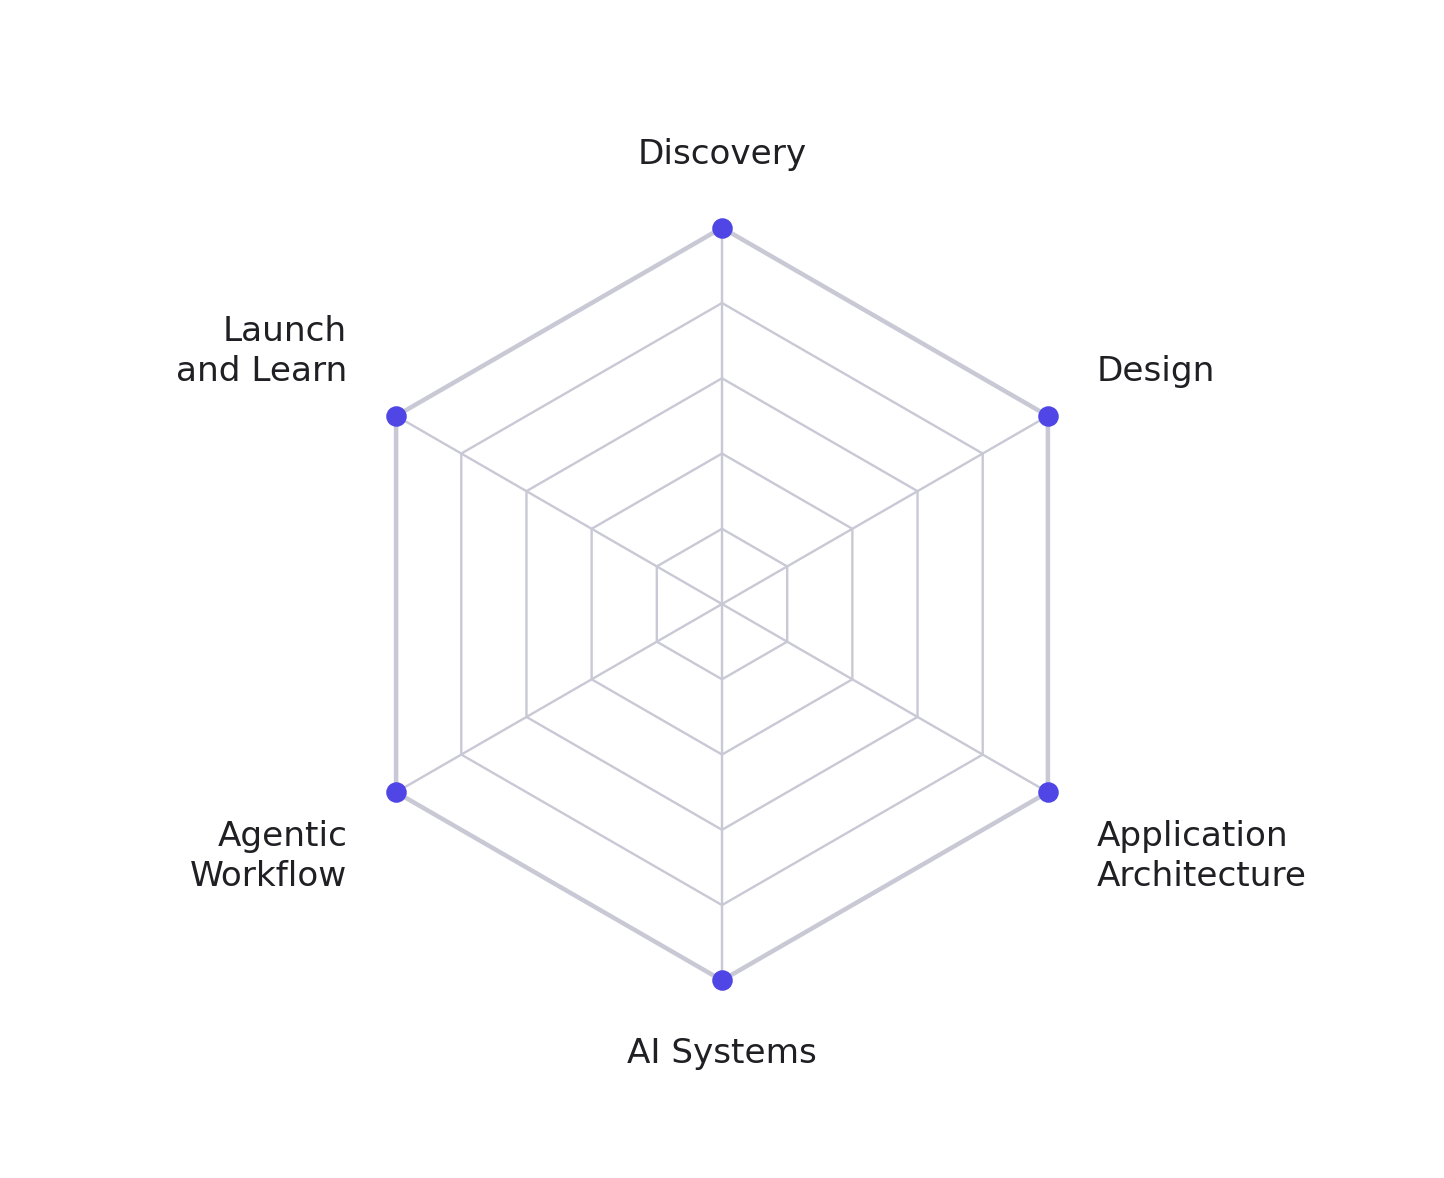
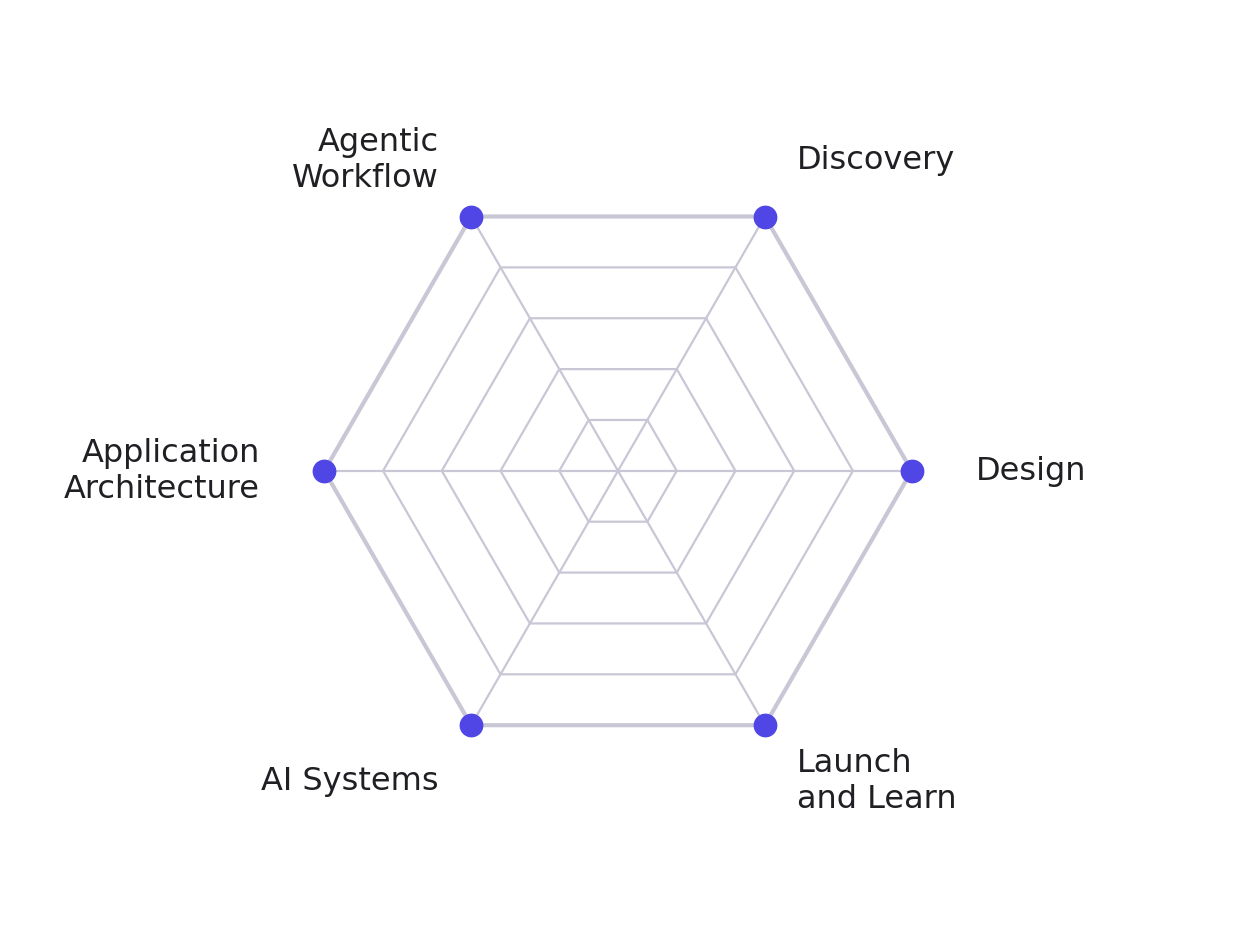
Builder hexagon flat top, matching AI Foundry; axis definitions follow the Oct 8 split
Hexagon redrawn as two waterfalls (AI down the left, product down the right) in
builder-model.png and the sprint feedback hexagon, and shown where the six axes are
introduced (syllabus, schedule, Chapter 1). The old pointy-top two-panel image is
removed. Schedule and Chapter 1 questions, the artifacts-by-axis table, and the grader's
axis tagging now use the new AI Systems / Agentic Workflow definitions.

Claude-Session: https://claude.ai/code/session_01GWPTpjEGwc8BLAqqmnA7Vf

diff --git a/scripts/sprint_feedback.py b/scripts/sprint_feedback.py
@@ -41,10 +41,12 @@ def fmt(x):
     return f"{x:g}"
 
 
-# Same axis order, orientation, and colors as the builder profile charts students received.
-AXES = ["Discovery", "Design", "Application Architecture", "AI Systems", "Agentic Workflow", "Launch and Learn"]
-SHORT = [["Discovery"], ["Design"], ["Application", "Architecture"], ["AI Systems"], ["Agentic", "Workflow"],
-         ["Launch", "and Learn"]]
+# Same layout and colors as the builder profile charts and the app: a flat-top hexagon drawn
+# clockwise from one o'clock, product down the right (Discovery, Design, Launch and Learn), AI
+# down the left read from the top (Agentic Workflow, Application Architecture, AI Systems).
+AXES = ["Discovery", "Design", "Launch and Learn", "AI Systems", "Application Architecture", "Agentic Workflow"]
+SHORT = [["Discovery"], ["Design"], ["Launch", "and Learn"], ["AI Systems"], ["Application", "Architecture"],
+         ["Agentic", "Workflow"]]
 ACCENT, GRID, INK, MUTED = "#4f46e5", "#d5d5df", "#1f1f24", "#6b6b76"
 
 
@@ -57,7 +59,7 @@ def hexagon(shares, profile=None):
     center means only skill; effort is the shading, so the two never share a scale."""
     import math
     cx, cy, R = 260, 170, 112
-    ang = [math.pi / 2 - i * 2 * math.pi / 6 for i in range(6)]
+    ang = [math.pi / 3 - i * 2 * math.pi / 6 for i in range(6)]  # first axis at one o'clock, flat top
     pt = lambda r, a: (cx + r * math.cos(a), cy - r * math.sin(a))
     vals = [max(0.0, min(1.0, float(shares.get(ax, 0)))) for ax in AXES]
     wedges = ""
@@ -85,7 +87,7 @@ def hexagon(shares, profile=None):
     for ax, lines, v, a in zip(AXES, SHORT, vals, ang):
         x, y = pt(R + 22, a)
         anchor = "middle" if abs(math.cos(a)) < 0.2 else ("start" if math.cos(a) > 0 else "end")
-        y0 = y - (len(lines) - 1) * 7 + (4 if math.sin(a) < -0.2 else (-6 if math.sin(a) > 0.9 else 0))
+        y0 = y - (len(lines) - 1) * 7 + (6 if math.sin(a) < -0.2 else (-14 if math.sin(a) > 0.2 else 0))
         tsp = "".join(f'<tspan x="{x:.1f}" dy="{0 if i == 0 else 14}">{html.escape(l)}</tspan>' for i, l in enumerate(lines))
         sub = []
         if profile and ax in profile:

diff --git a/scripts/grading/sprint-grader.md b/scripts/grading/sprint-grader.md
@@ -208,7 +208,12 @@ work was closer to a 4: the Supabase auth took four days across 31 prompts.").
 ## Axes
 
 Split the sprint's work across the six axes as shares that add up to 1: Discovery, Design,
-Application Architecture, AI Systems, Agentic Workflow, Launch and Learn. Use everything, all
+Launch and Learn, Agentic Workflow, Application Architecture, AI Systems. Agentic Workflow is
+putting AI to work, both directing coding agents and building AI into the product (prompts, tool
+use, agent loops, evals). Application Architecture includes wiring a model in (API calls,
+retrieval pipelines, cost and latency). AI Systems is understanding how the models work and why
+they behave as they do (pretraining, fine-tuning, embeddings, context windows, hallucination),
+not wiring them. Use everything, all
 together: the plan as it stands at the end (what the sprint was for), the `/sprint-review`
 report (where the time and prompts actually went, its axis tag, and any work it lists outside
 the scanned sessions), the artifacts in `shipped_files` and `other_repos`, and the demo. Each
